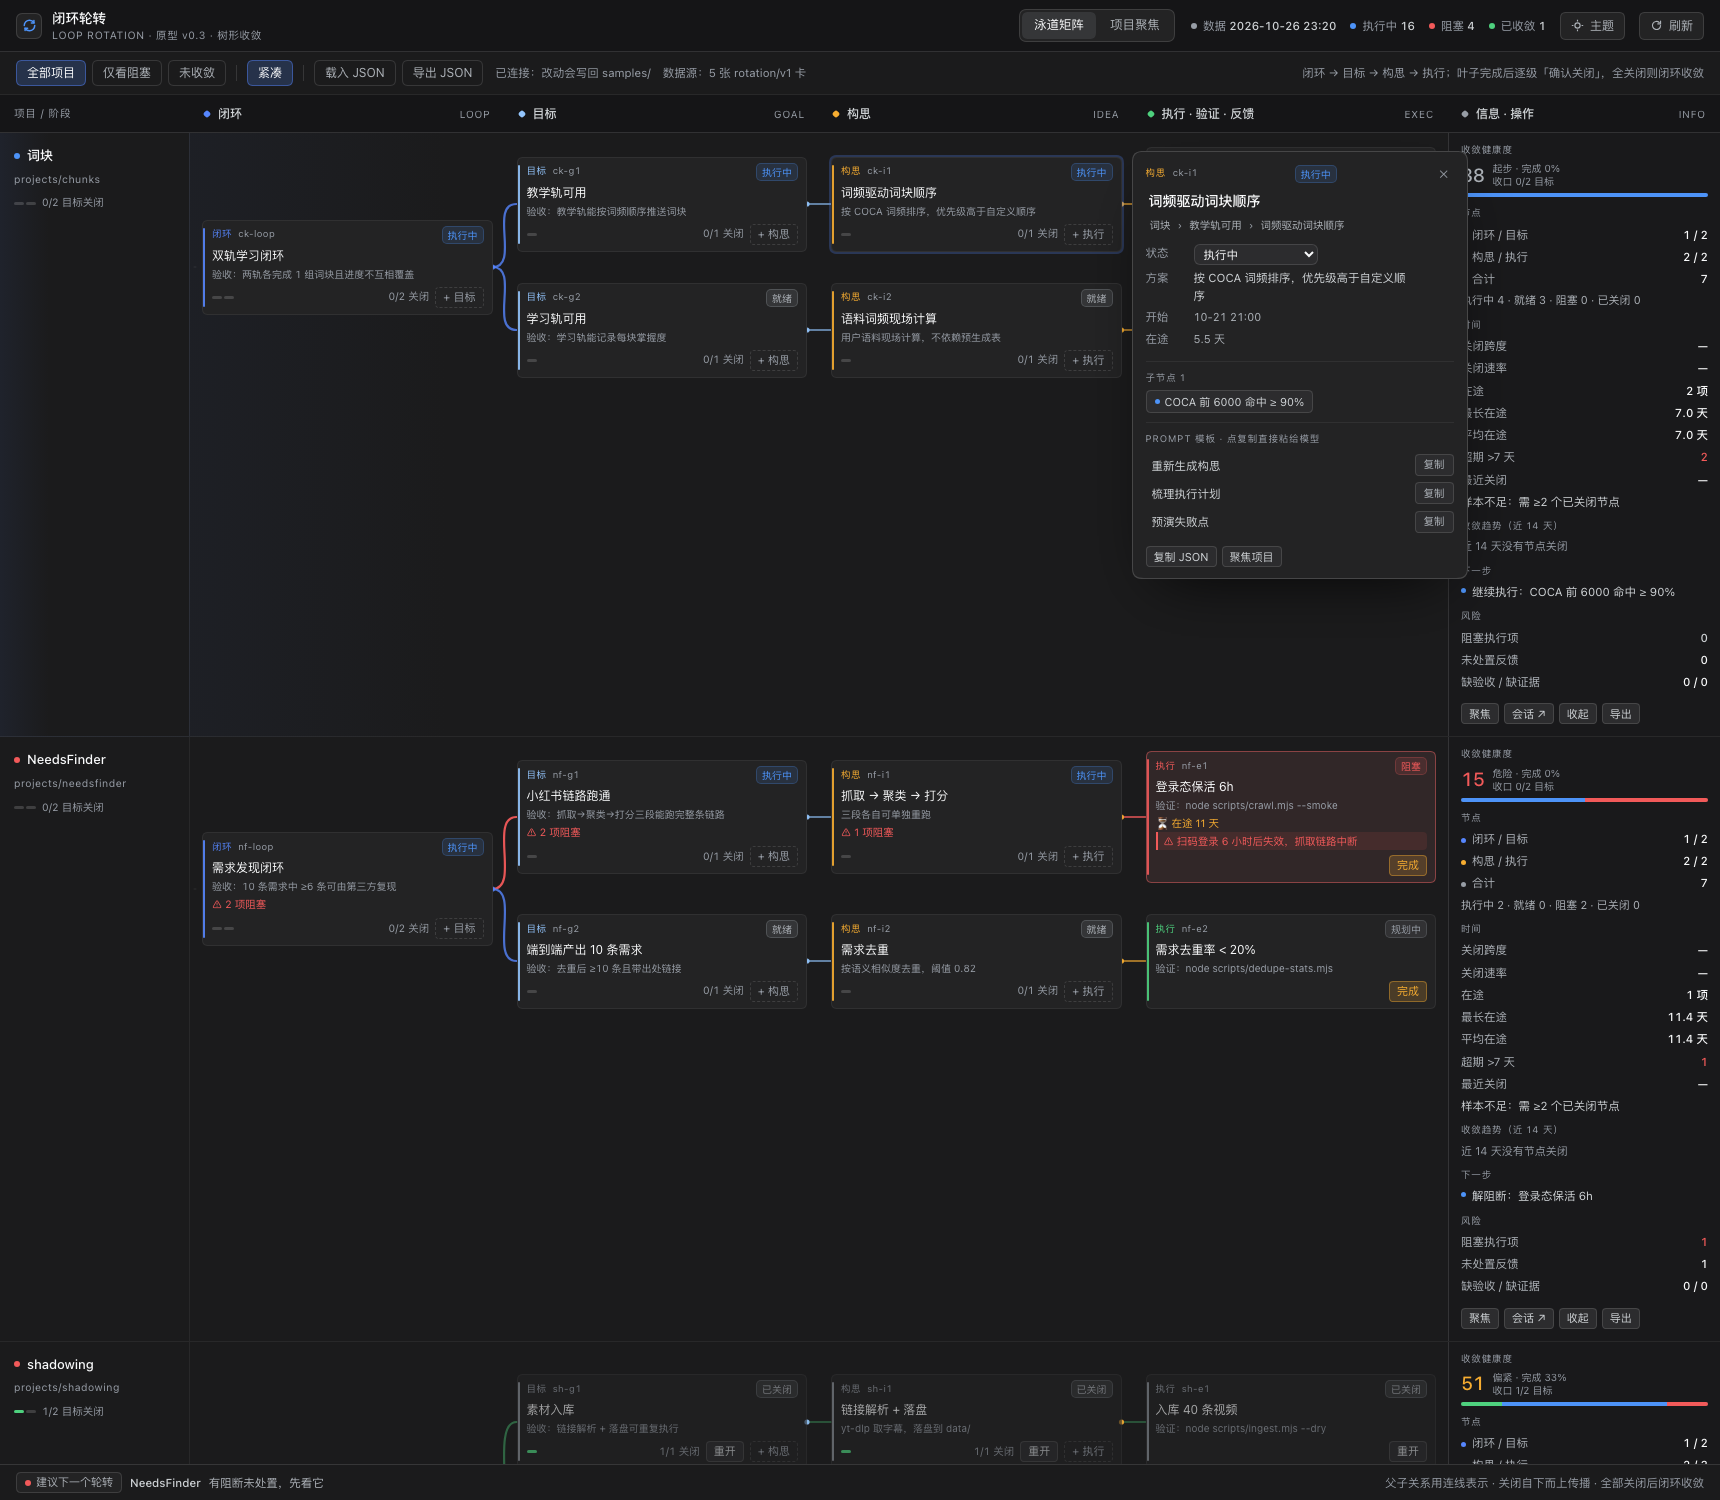
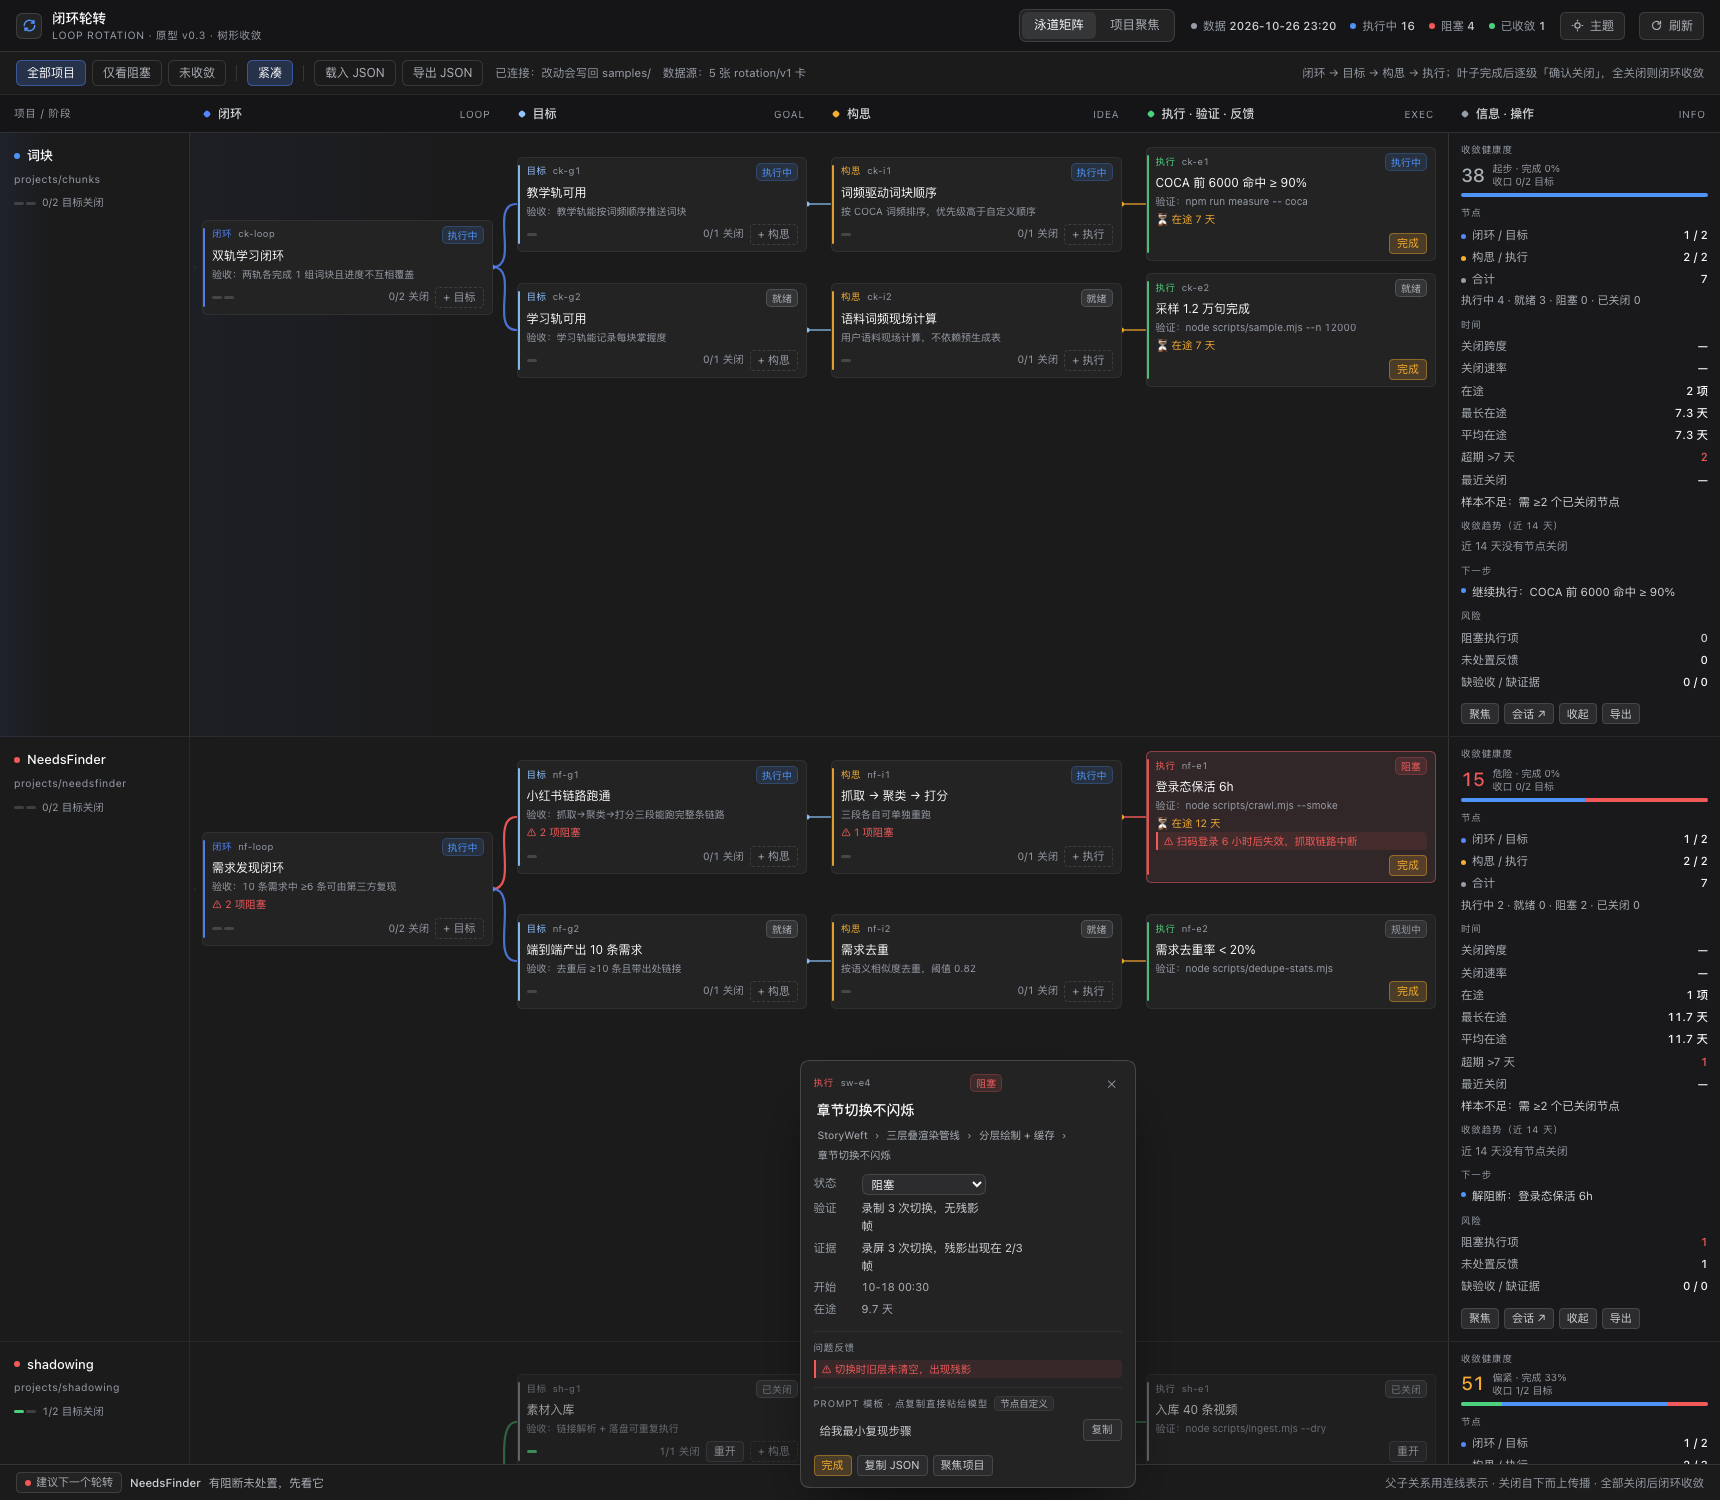
feat: make prompt templates configurable from rotation.json
- 新增 prompts 字段：卡片级按节点类型（prompts.loop/goal/idea/exec），
  节点级数组覆盖；优先级 节点 > 卡片 > 内置
- 详情卡 Prompt 区标注来源（内置 / rotation.json / 节点自定义）
- validator 校验 prompts 形状：id 格式、title/ask 必填、未知类型只警告
- 样例：storyweft 卡加 idea 自定义模板；sw-e4 加节点级「最小复现步骤」
- 规范与 README 补默认值/优先级说明

diff --git a/index.html b/index.html
@@ -303,6 +303,8 @@
   .dchip:hover{border-color:var(--b3);color:var(--tx1)}
   .dchip i{width:5px;height:5px;border-radius:50%;background:var(--tone);flex:0 0 auto}
   .dchip span{overflow:hidden;text-overflow:ellipsis;white-space:nowrap}
+  .psrc{margin-left:6px;text-transform:none;letter-spacing:0;color:var(--tx3);font-size:9.5px;
+    padding:1px 5px;border-radius:4px;background:var(--l3);border:1px solid var(--b1)}
   .prompt-list{display:flex;flex-direction:column;gap:1px}
   .prow{display:flex;align-items:center;gap:6px;border-radius:6px;transition:background-color 140ms var(--ease-out)}
   .prow:hover{background:var(--hover)}
@@ -1333,6 +1335,16 @@ const PROMPT_TASKS = {
 };
 const PROMPT_OUTPUT = '输出用 Markdown，小节标题固定；不要复述上下文，直接给结论与步骤。';
 
+function taskListFor(p, n){
+  const cardPrompts = p.card && p.card.prompts;
+  const nodePrompts = n.raw && n.raw.prompts;
+  if (Array.isArray(nodePrompts) && nodePrompts.length) return { list: nodePrompts, from: '节点自定义' };
+  if (cardPrompts && Array.isArray(cardPrompts[n.kind]) && cardPrompts[n.kind].length) {
+    return { list: cardPrompts[n.kind], from: 'rotation.json' };
+  }
+  return { list: PROMPT_TASKS[n.kind] || [], from: '内置' };
+}
+
 function composePrompt(p, n, task){
   const trail = pathTo(p.root, n.id);
   const loop = trail[0], goal = trail.find(x => x.kind === 'goal'), idea = trail.find(x => x.kind === 'idea');
@@ -1430,6 +1442,7 @@ function detailMarkup(p, n){
     .concat(trail.slice(1).map(x => `<span>›</span><button data-jump="${x.id}" data-proj="${p.id}">${x.title}</button>`)).join('');
 
   const issues = (r.issues || []).map(i => `<div class="issue">⚠ ${i.text}${i.resolved_at ? ' · 已处置' : ''}</div>`).join('');
+  const tasks = taskListFor(p, n);
   const kidsHtml = kids.length
     ? `<div class="detail-sec"><div class="detail-k">子节点 ${kids.length}</div><div class="detail-chips">
         ${kids.map(k => {
@@ -1468,10 +1481,10 @@ function detailMarkup(p, n){
     ${issues ? `<div class="detail-sec"><div class="detail-k">问题反馈</div>${issues}</div>` : ''}
     ${kidsHtml}
     <div class="detail-sec">
-      <div class="detail-k">Prompt 模板 · 点复制直接粘给模型</div>
+      <div class="detail-k">Prompt 模板 · 点复制直接粘给模型<span class="psrc">${tasks.from}</span></div>
       <div class="prompt-list">
-        ${(PROMPT_TASKS[n.kind] || []).map(t => `<div class="prow" data-task="${t.id}">
-          <button class="ptitle" data-preview-prompt="${t.id}" data-nid="${n.id}" data-proj="${p.id}">${t.title}</button>
+        ${tasks.list.map(t => `<div class="prow" data-task="${t.id}">
+          <button class="ptitle" data-preview-prompt="${t.id}" data-nid="${n.id}" data-proj="${p.id}">${esc(t.title)}</button>
           <button class="pcopy" data-copy-prompt="${t.id}" data-nid="${n.id}" data-proj="${p.id}" title="复制完整 prompt">复制</button>
         </div>`).join('')}
       </div>
@@ -1721,7 +1734,7 @@ document.addEventListener('click', (e)=>{
   if (copyPrompt){
     const p0 = PROJECTS.find(x => x.id === copyPrompt.dataset.proj);
     const n0 = p0 && findNode(p0.root, copyPrompt.dataset.nid);
-    const task = (PROMPT_TASKS[n0.kind] || []).find(t => t.id === copyPrompt.dataset.copyPrompt);
+    const task = taskListFor(p0, n0).list.find(t => t.id === copyPrompt.dataset.copyPrompt);
     if (p0 && n0 && task){
       const txt = composePrompt(p0, n0, task);
       copyText(txt).then(ok => {
@@ -1742,7 +1755,7 @@ document.addEventListener('click', (e)=>{
   if (previewPrompt){
     const p0 = PROJECTS.find(x => x.id === previewPrompt.dataset.proj);
     const n0 = p0 && findNode(p0.root, previewPrompt.dataset.nid);
-    const task = (PROMPT_TASKS[n0.kind] || []).find(t => t.id === previewPrompt.dataset.previewPrompt);
+    const task = taskListFor(p0, n0).list.find(t => t.id === previewPrompt.dataset.previewPrompt);
     const pre = $('#pgen');
     if (p0 && n0 && task && pre){
       const same = pre.dataset.task === task.id;

diff --git a/rotation-card-spec.md b/rotation-card-spec.md
@@ -54,6 +54,38 @@
 | `issues[]` | exec | ➖ | `{ "text", "at", "resolved_at?" }`，未 resolved 即阻塞 |
 | `children[]` | loop, goal, idea, exec | ➖ | 顺序即展示顺序 |
 
+## Prompt 模板（可选，存进卡里）
+
+模板可以写进 `rotation.json`，改模板不用改代码。三层优先级：**节点级 > 卡片级（按类型）> 内置**。
+
+```json
+{
+  "prompts": {
+    "idea": [
+      { "id": "regen",   "title": "重新生成构思（保留验收）", "ask": "保留闭环意图与目标验收，重新给出 2 个替代构思……" },
+      { "id": "contract", "title": "写成接口契约",            "ask": "把这个构思写成可对接的接口契约：输入、输出、错误码……" }
+    ]
+  },
+  "loop": {
+    "id": "sw-loop", "kind": "loop", "title": "…",
+    "children": [
+      { "id": "sw-e4", "kind": "exec", "title": "…",
+        "prompts": [ { "id": "repro", "title": "给我最小复现步骤", "ask": "列出最小复现步骤与期望/实际结果。" } ] }
+    ]
+  }
+}
+```
+
+| 字段 | 位置 | 说明 |
+|---|---|---|
+| `prompts` | 卡根 | 按节点类型分组 `loop/goal/idea/exec`，**整组替换**内置模板 |
+| `prompts` | 单个节点 | 数组，**整组替换**该节点的模板（优先级最高） |
+| `id` | 每条 | 字母数字与 `-` `_`，同类型内唯一 |
+| `title` | 每条 | 详情卡上显示的按钮名（≤ 12 字较好） |
+| `ask` | 每条 | 任务指令原文；上下文与输出要求由面板自动拼 |
+
+详情卡会标出来源：`内置` / `rotation.json` / `节点自定义`。
+
 ## 不变量（validator 会拦）
 
 1. `schema` 必须为 `rotation/v1`。
@@ -66,6 +98,7 @@
 8. `issues` 只能出现在 `exec` 上。
 9. `started_at` 必须是 ISO 或 `null`，且**不能晚于** `closed_at`（否则在途为负）。
 10. `status: doing` 且未关闭时建议带 `started_at`（缺了只警告：面板算不出在途）。
+11. `prompts` 每条必须有 `id`（字母数字 `-_`）、`title`、`ask`；未知节点类型的 `prompts.<kind>` 只警告。
 
 ## 最短实现遇到的问题与增量改进（Problems & Incremental Changes）
 

diff --git a/README.md b/README.md
@@ -53,6 +53,7 @@ node validate-rotation.mjs samples/我的项目.rotation.json   # 先改 id/titl
 | 构思 | 重新生成构思 / 梳理执行计划 / 预演失败点 |
 | 执行 | 给出执行步骤 / 补齐证据 / 定位阻塞 |
 
+- 模板可写进 `rotation.json`：卡根 `prompts.<类型>` 或节点上 `prompts` 数组，**节点级 > 卡片级 > 内置**；详情卡标注来源。
 - 点模板名 = 展开完整 prompt 预览；点「复制」= 写入剪贴板。
 - 剪贴板被拒（无用户激活 / 无权限）时自动展开并选中原文，提示按 ⌘C。
 
